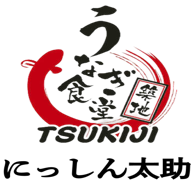
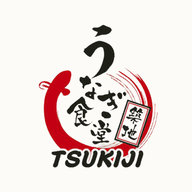
基本SEO強化と会社ロゴファビコンの整備
- ファビコン一式を会社ロゴのエンブレムから再生成（小サイズでも判読可・ダークタブ対応）
- author メタの会社名を修正（株式会社→有限会社築地にっしん太助）
- トップ/OGP/Twitter タイトルを主要検索語「築地うなぎ食堂」先頭に統一
- keywords に 有限会社築地にっしん太助 / 築地 うなぎ / 陽ちゃん・築地の陽ちゃん / ジェットシェフ 等を追加
- Organization 構造化データに legalName・alternateName・電話・住所を追加、logo を ImageObject 化
- 全サブページに BreadcrumbList 構造化データを動的付与、ページ別 keywords を追加
- 陽ちゃんページのタイトル/説明に漢字表記「陽ちゃん」を明記
- robots メタ追加、sitemap 更新日更新、manifest をマスカブル対応

diff --git a/index.html b/index.html
@@ -3,27 +3,29 @@
   <head>
     <meta charset="utf-8" />
     <meta name="viewport" content="width=device-width, initial-scale=1" />
-    <title>築地にっしん太助 | 築地場外市場のうなぎ専門店</title>
+    <title>築地うなぎ食堂｜築地にっしん太助｜築地場外市場のうなぎ専門店</title>
 
     <!-- SEO Meta -->
-    <meta name="description" content="築地場外市場に店を構える「築地にっしん太助」。うなぎ食堂・金のうなぎなど3店舗を展開。職人が一枚一枚丁寧に焼き上げる本格うなぎ料理をお手頃価格でお届けします。特許取得のJetChef加熱容器による宅配にも対応。" />
-    <meta name="keywords" content="築地にっしん太助,うなぎ,築地うなぎ食堂,金のうなぎ,築地場外市場,うな重,ひつまぶし,JetChef,デリバリー,テイクアウト,鰻,蒲焼き,東京" />
-    <meta name="author" content="株式会社にっしん太助" />
+    <meta name="description" content="築地場外市場に店を構える「築地うなぎ食堂」（有限会社築地にっしん太助）。うなぎ食堂・金のうなぎなど3店舗を展開。職人が一枚一枚丁寧に焼き上げる本格うなぎ料理をお手頃価格でお届けします。特許取得のJetChef（ジェットシェフ）加熱容器による宅配にも対応。" />
+    <meta name="keywords" content="築地うなぎ食堂,築地にっしん太助,有限会社築地にっしん太助,築地 うなぎ,築地うなぎ,うなぎ,金のうなぎ,築地場外市場,うな重,ひつまぶし,鰻,蒲焼き,うなぎ弁当,JetChef,Jetchef,ジェットシェフ,陽ちゃん,築地の陽ちゃん,ようちゃん,YO-chan,YO CHAN BENTO,デリバリー,テイクアウト,ケータリング,東京" />
+    <meta name="author" content="有限会社築地にっしん太助" />
+    <meta name="robots" content="index, follow, max-image-preview:large, max-snippet:-1, max-video-preview:-1" />
     <meta name="theme-color" content="#0f0f0f" />
     <meta name="format-detection" content="telephone=no" />
+    <meta name="apple-mobile-web-app-title" content="にっしん太助" />
 
-    <!-- Favicon -->
-    <link rel="icon" href="/favicon.ico" sizes="32x32" />
+    <!-- Favicon（会社ロゴ） -->
+    <link rel="icon" href="/favicon.ico" sizes="any" />
     <link rel="icon" href="/favicon-32x32.png" type="image/png" sizes="32x32" />
     <link rel="icon" href="/favicon-16x16.png" type="image/png" sizes="16x16" />
-    <link rel="apple-touch-icon" href="/apple-touch-icon.png" />
+    <link rel="apple-touch-icon" sizes="180x180" href="/apple-touch-icon.png" />
     <link rel="manifest" href="/site.webmanifest" />
 
     <!-- Open Graph / Facebook -->
     <meta property="og:type" content="website" />
     <meta property="og:url" content="https://tsukijiunagisyokudo.jp/" />
-    <meta property="og:title" content="築地にっしん太助 | 築地場外市場のうなぎ専門店" />
-    <meta property="og:description" content="築地場外市場に店を構える「築地にっしん太助」。うなぎ食堂・金のうなぎなど3店舗を展開。職人が一枚一枚丁寧に焼き上げる本格うなぎ料理をお手頃価格でお届けします。" />
+    <meta property="og:title" content="築地うなぎ食堂｜築地にっしん太助｜築地場外市場のうなぎ専門店" />
+    <meta property="og:description" content="築地場外市場の「築地うなぎ食堂」（有限会社築地にっしん太助）。うなぎ食堂・金のうなぎなど3店舗を展開。職人が一枚一枚丁寧に焼き上げる本格うなぎ料理をお手頃価格でお届けします。" />
     <meta property="og:image" content="https://tsukijiunagisyokudo.jp/og-image.jpg" />
     <meta property="og:image:secure_url" content="https://tsukijiunagisyokudo.jp/og-image.jpg" />
     <meta property="og:image:type" content="image/jpeg" />
@@ -35,8 +37,8 @@
 
     <!-- Twitter Card -->
     <meta name="twitter:card" content="summary_large_image" />
-    <meta name="twitter:title" content="築地にっしん太助 | 築地場外市場のうなぎ専門店" />
-    <meta name="twitter:description" content="築地場外市場に店を構える「築地にっしん太助」。職人が焼き上げる本格うなぎ料理をお手頃価格で。3店舗展開・デリバリー対応。" />
+    <meta name="twitter:title" content="築地うなぎ食堂｜築地にっしん太助｜築地場外市場のうなぎ専門店" />
+    <meta name="twitter:description" content="築地場外市場の「築地うなぎ食堂」（有限会社築地にっしん太助）。職人が焼き上げる本格うなぎ料理をお手頃価格で。3店舗展開・JetChef宅配対応。" />
     <meta name="twitter:image" content="https://tsukijiunagisyokudo.jp/og-image.jpg" />
     <meta name="twitter:image:alt" content="築地うなぎ食堂 本店の店構え（築地場外市場）" />
 
@@ -59,10 +61,26 @@
           "@type": "Organization",
           "@id": "https://tsukijiunagisyokudo.jp/#organization",
           "name": "築地にっしん太助",
+          "legalName": "有限会社築地にっしん太助",
+          "alternateName": ["築地うなぎ食堂", "築地の陽ちゃん", "にっしん太助"],
           "url": "https://tsukijiunagisyokudo.jp/",
-          "logo": "https://tsukijiunagisyokudo.jp/android-chrome-512x512.png",
+          "logo": {
+            "@type": "ImageObject",
+            "url": "https://tsukijiunagisyokudo.jp/android-chrome-512x512.png",
+            "width": 512,
+            "height": 512
+          },
           "image": "https://tsukijiunagisyokudo.jp/og-image.jpg",
-          "description": "築地場外市場に店を構える「築地にっしん太助」。うなぎ食堂・金のうなぎなど3店舗を展開。職人が一枚一枚丁寧に焼き上げる本格うなぎ料理をお手頃価格でお届けします。特許取得のJetChef加熱容器による宅配にも対応。",
+          "description": "築地場外市場に店を構える「築地うなぎ食堂」（有限会社築地にっしん太助）。うなぎ食堂・金のうなぎなど3店舗を展開。職人が一枚一枚丁寧に焼き上げる本格うなぎ料理をお手頃価格でお届けします。特許取得のJetChef（ジェットシェフ）加熱容器による宅配にも対応。",
+          "telephone": "0120-17-0521",
+          "address": {
+            "@type": "PostalAddress",
+            "postalCode": "104-0045",
+            "addressCountry": "JP",
+            "addressRegion": "東京都",
+            "addressLocality": "中央区",
+            "streetAddress": "築地4-13-18"
+          },
           "sameAs": [
             "https://www.instagram.com/tsukijiunagi/",
             "https://www.facebook.com/tsukijidelivery/"

diff --git a/lib/seo.ts b/lib/seo.ts
@@ -24,7 +24,7 @@ export function titleFor(page: PageView): string {
     case 'company': return '会社案内' + SUFFIX;
     case 'consumer': return '個人のお客様へ' + SUFFIX;
     case 'corporate': return '法人のお客様へ' + SUFFIX;
-    case 'yochan': return 'ようちゃんとは' + SUFFIX;
+    case 'yochan': return 'ようちゃん（陽ちゃん）とは' + SUFFIX;
     case 'privacy': return '個人情報保護方針' + SUFFIX;
     case 'newslist': return 'お知らせ一覧' + SUFFIX;
     case 'news': {
@@ -39,7 +39,7 @@ export function titleFor(page: PageView): string {
       const s = SHOPS.find(x => x.id === page.id);
       return (s ? s.name : '店舗案内') + SUFFIX;
     }
-    default: return BRAND + ' | 築地場外市場のうなぎ専門店';
+    default: return '築地うなぎ食堂｜築地にっしん太助｜築地場外市場のうなぎ専門店';
   }
 }
 
@@ -53,7 +53,7 @@ export function descriptionFor(page: PageView): string {
     case 'corporate':
       return '法人のお客様へ。会議・イベント・接待に、特許取得のJetChef加熱容器で電子レンジ不要のあたたかいうなぎ弁当をお届け。ケータリング・大口注文に対応します。';
     case 'yochan':
-      return '「ようちゃん」とは — 築地にっしん太助のうなぎに込めた想いと物語。看板商品 YO CHAN BENTO の由来をご紹介します。';
+      return '「ようちゃん（陽ちゃん）」とは — 築地にっしん太助のうなぎに込めた想いと物語。看板キャラクター「築地の陽ちゃん」と看板商品 YO CHAN BENTO の由来をご紹介します。';
     case 'privacy':
       return '築地にっしん太助（有限会社築地にっしん太助）の個人情報保護方針。お客さまの個人情報の管理・利用目的・第三者提供・安全対策・開示請求についてご案内します。';
     case 'newslist':
@@ -76,6 +76,71 @@ export function descriptionFor(page: PageView): string {
     }
     default: return DEFAULT_DESC;
   }
+}
+
+// ──────────────── キーワード（meta keywords） ────────────────
+// Google のランキング要素ではないが、指定検索語での想起補助として各ページに付与する。
+const BASE_KW =
+  '築地うなぎ食堂,築地にっしん太助,有限会社築地にっしん太助,築地 うなぎ,築地うなぎ,うなぎ,金のうなぎ,築地場外市場,うな重,鰻,蒲焼き,JetChef,ジェットシェフ,陽ちゃん,ようちゃん,東京';
+
+export function keywordsFor(page: PageView): string {
+  switch (page.type) {
+    case 'company':
+      return '会社案内,会社概要,有限会社築地にっしん太助,' + BASE_KW;
+    case 'yochan':
+      return '陽ちゃん,築地の陽ちゃん,ようちゃん,YO-chan,YO CHAN BENTO,うなぎ弁当,' + BASE_KW;
+    case 'corporate':
+      return '法人のお客様,ケータリング,うなぎ弁当,JetChef,ジェットシェフ,会議,接待,イベント,' + BASE_KW;
+    case 'consumer':
+      return 'テイクアウト,デリバリー,お取り寄せ,ギフト,全国発送,' + BASE_KW;
+    case 'shop': {
+      const s = SHOPS.find(x => x.id === page.id);
+      return (s ? s.name + ',' + s.address + ',' : '') + BASE_KW;
+    }
+    default:
+      return BASE_KW;
+  }
+}
+
+// ──────────────── パンくずリスト（BreadcrumbList） ────────────────
+function breadcrumbLd(page: PageView): object | null {
+  const items: { name: string; url: string }[] = [{ name: 'ホーム', url: ORIGIN + '/' }];
+  const push = (name: string, path: string) => items.push({ name, url: ORIGIN + path });
+  switch (page.type) {
+    case 'company': push('会社案内', '/company'); break;
+    case 'consumer': push('個人のお客様へ', '/consumer'); break;
+    case 'corporate': push('法人のお客様へ', '/corporate'); break;
+    case 'yochan': push('ようちゃんとは', '/yochan'); break;
+    case 'privacy': push('個人情報保護方針', '/privacy-policy'); break;
+    case 'newslist': push('お知らせ', '/news'); break;
+    case 'news': {
+      push('お知らせ', '/news');
+      const n = NEWS.find(x => x.id === page.id);
+      if (n) push(n.title, '/news/' + n.id);
+      break;
+    }
+    case 'article': {
+      const c = COLUMNS.find(x => x.id === page.id);
+      if (c) push(c.title, '/column/' + c.id);
+      break;
+    }
+    case 'shop': {
+      const s = SHOPS.find(x => x.id === page.id);
+      if (s) push(s.name, '/shop/' + s.id);
+      break;
+    }
+    default: return null; // ホームはパンくず不要
+  }
+  if (items.length < 2) return null;
+  return {
+    '@type': 'BreadcrumbList',
+    itemListElement: items.map((it, i) => ({
+      '@type': 'ListItem',
+      position: i + 1,
+      name: it.name,
+      item: it.url,
+    })),
+  };
 }
 
 // ──────────────── JSON-LD 構造化データ ────────────────
@@ -132,5 +197,7 @@ export function jsonLdFor(page: PageView): { '@context': string; '@graph': objec
     const s = SHOPS.find(x => x.id === page.id);
     if (s) graph.push(restaurantLd(s));
   }
+  const bc = breadcrumbLd(page);
+  if (bc) graph.push(bc);
   return { '@context': 'https://schema.org', '@graph': graph };
 }

diff --git a/App.tsx b/App.tsx
@@ -21,7 +21,7 @@ import { NewsListPage } from './components/NewsListPage';
 import { ShopPage } from './components/ShopPage';
 import { PrivacyPolicyPage } from './components/PrivacyPolicyPage';
 import { useRoute, navigate, scrollToTarget } from './lib/router';
-import { titleFor, descriptionFor, jsonLdFor } from './lib/seo';
+import { titleFor, descriptionFor, keywordsFor, jsonLdFor } from './lib/seo';
 
 // 管理画面（/admin）は遅延読み込み（公開バンドルには含めない）
 const AdminApp = lazy(() => import('./components/admin/AdminApp'));
@@ -99,6 +99,7 @@ function App() {
 
     document.title = title;
     upsertMetaByName('description', description);
+    upsertMetaByName('keywords', keywordsFor(page));
 
     const canonical = document.querySelector('link[rel="canonical"]');
     if (canonical) canonical.setAttribute('href', url);
